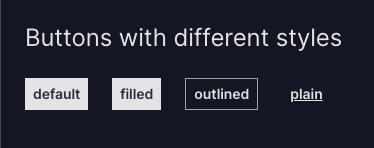
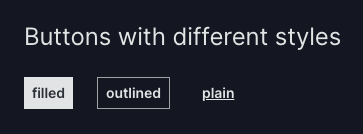
PR comments

diff --git a/vizro-core/tests/unit/vizro/models/_components/test_button.py b/vizro-core/tests/unit/vizro/models/_components/test_button.py
@@ -25,7 +25,7 @@ class TestButtonInstantiation:
         "text, href, variant",
         [
             ("Test", "/page_1_reference", "plain"),
-            ("Test", "https://www.google.de/", "filled"),
+            ("Test", "//www.google.de/", "filled"),
             ("""# Header""", "/", "outlined"),
             ("""<p>Hello </p>""", "/", "plain"),
         ],
@@ -73,9 +73,9 @@ class TestBuildMethod:
         )
 
     def test_button_build_with_href(self):
-        button = vm.Button(id="button_id", text="My text", href="https://www.google.com").build()
+        button = vm.Button(id="button_id", text="My text", href="//www.google.com").build()
         expected = dbc.Button(
-            id="button_id", children="My text", href="https://www.google.com", target="_top", color="primary"
+            id="button_id", children="My text", href="//www.google.com", target="_top", color="primary"
         )
         assert_component_equal(button, expected)
 

diff --git a/vizro-core/src/vizro/models/_components/button.py b/vizro-core/src/vizro/models/_components/button.py
@@ -66,7 +66,7 @@ class Button(VizroBaseModel):
             "children": self.text,
             "href": get_relative_path(self.href) if self.href.startswith("/") else self.href,
             "target": "_top",
-            # dbc.Button includes `btn btn-primary` as a  class by default and appends any class names provided.
+            # dbc.Button includes `btn btn-primary` as a class by default and appends any class names provided.
             # To prevent unnecessary class chaining, the button's style variant should be specified using `color`.
             "color": variants[self.variant],
         }

diff --git a/vizro-core/docs/pages/user-guides/button.md b/vizro-core/docs/pages/user-guides/button.md
@@ -160,7 +160,7 @@ vm.Page.add_type("controls", vm.Button)
 
 ## Styled buttons
 
-There are three predefined button styles that can be customized using the `variant` argument.
+There are three predefined button styles that can be customized using the `variant` argument. If no `variant` is specified, the default style applied is `variant="filled"`.
 
 !!! example "Button with different styles"
 
@@ -174,8 +174,7 @@ There are three predefined button styles that can be customized using the `varia
             title="Buttons with different styles",
             layout=vm.Flex(direction="row"),
             components=[
-                vm.Button(text="default"),
-                vm.Button(text="filled", variant="filled"),
+                vm.Button(text="filled"),
                 vm.Button(text="outlined", variant="outlined"),
                 vm.Button(text="plain", variant="plain"),
             ],
@@ -197,11 +196,7 @@ There are three predefined button styles that can be customized using the `varia
               type: flex
             components:
               - type: button
-                text: default
-                variant: filled
-              - type: button
                 text: filled
-                variant: filled
               - type: button
                 text: outlined
                 variant: outlined
